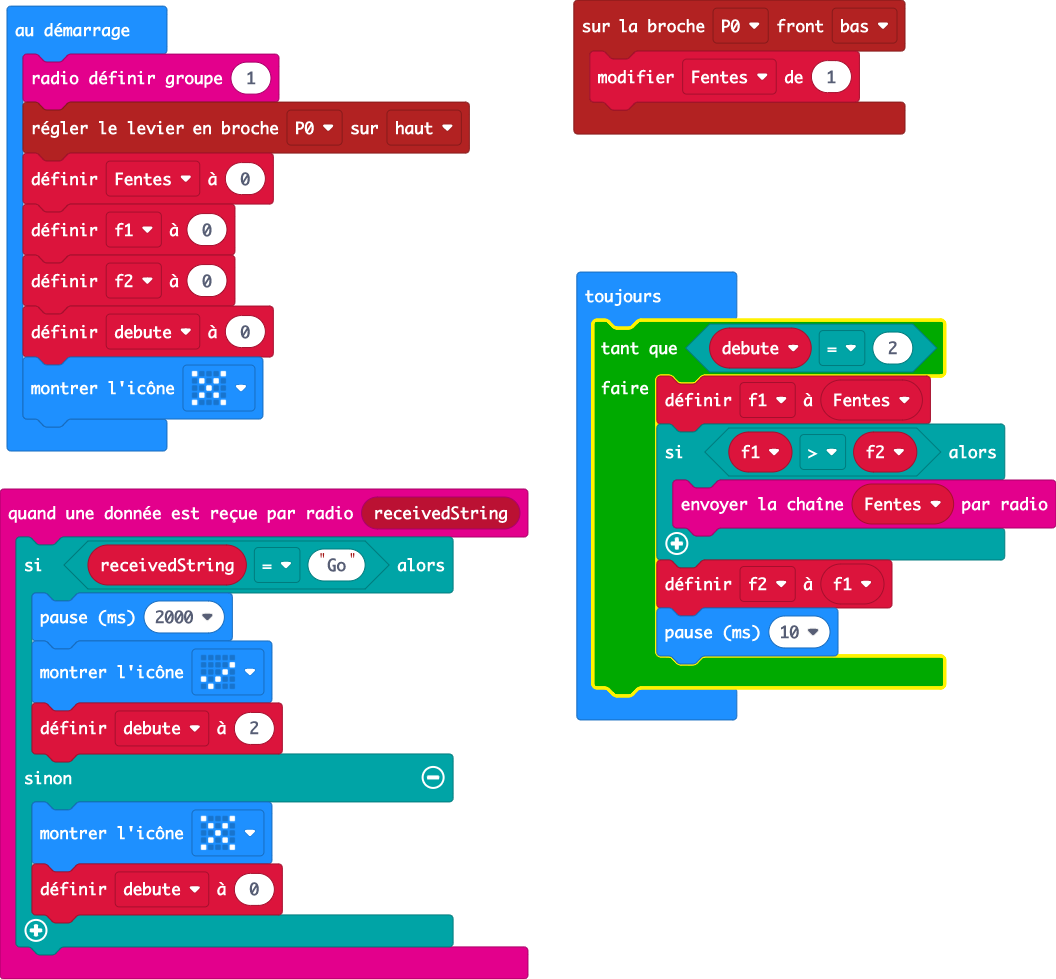
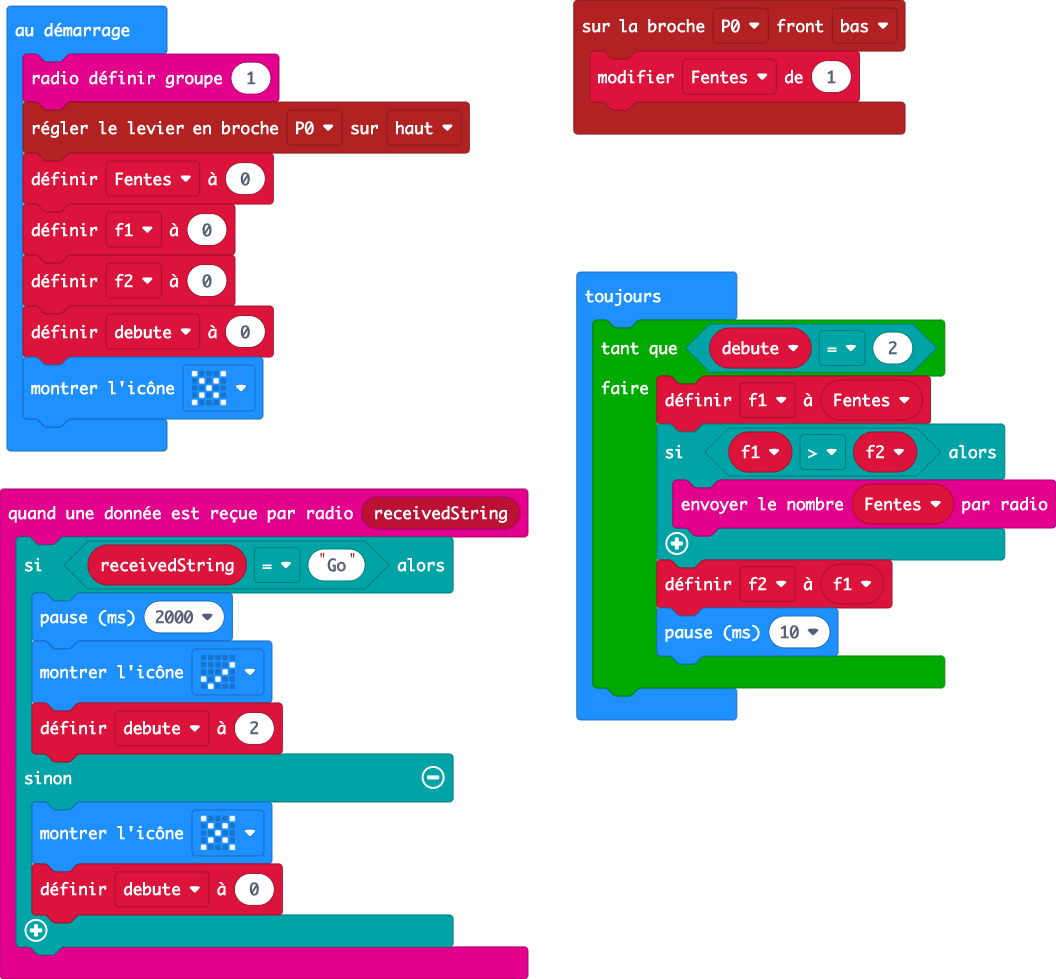
Mise à jour main.blocks, main.ts

Changed region(s): [[0.5625, 0.3064, 0.9062, 0.3984], [0.625, 0.6435, 0.9062, 0.7048], [0.75, 0.4903, 0.7812, 0.5209]]

diff --git a/main.ts b/main.ts
@@ -23,7 +23,7 @@ basic.forever(function () {
     while (debute == 2) {
         f1 = Fentes
         if (f1 > f2) {
-            radio.sendString("" + (Fentes))
+            radio.sendNumber(Fentes)
         }
         f2 = f1
         basic.pause(10)
